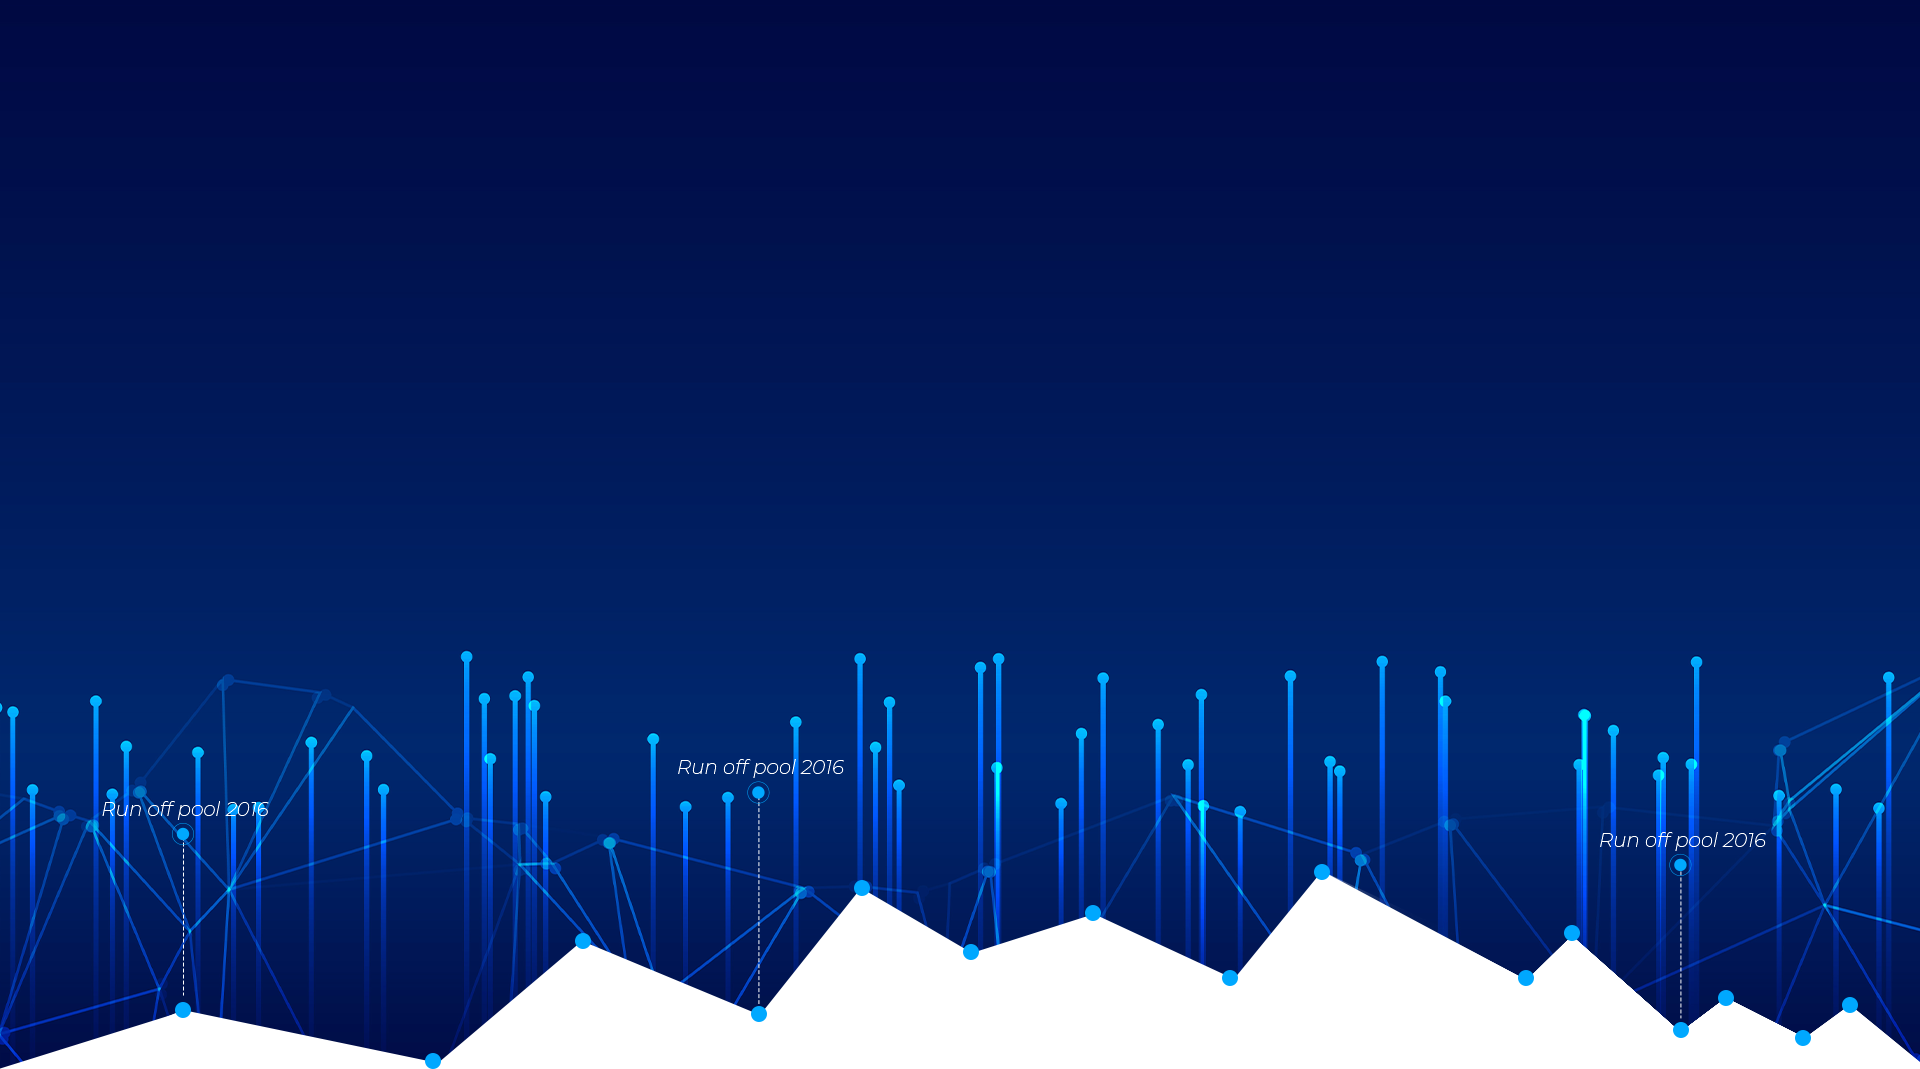
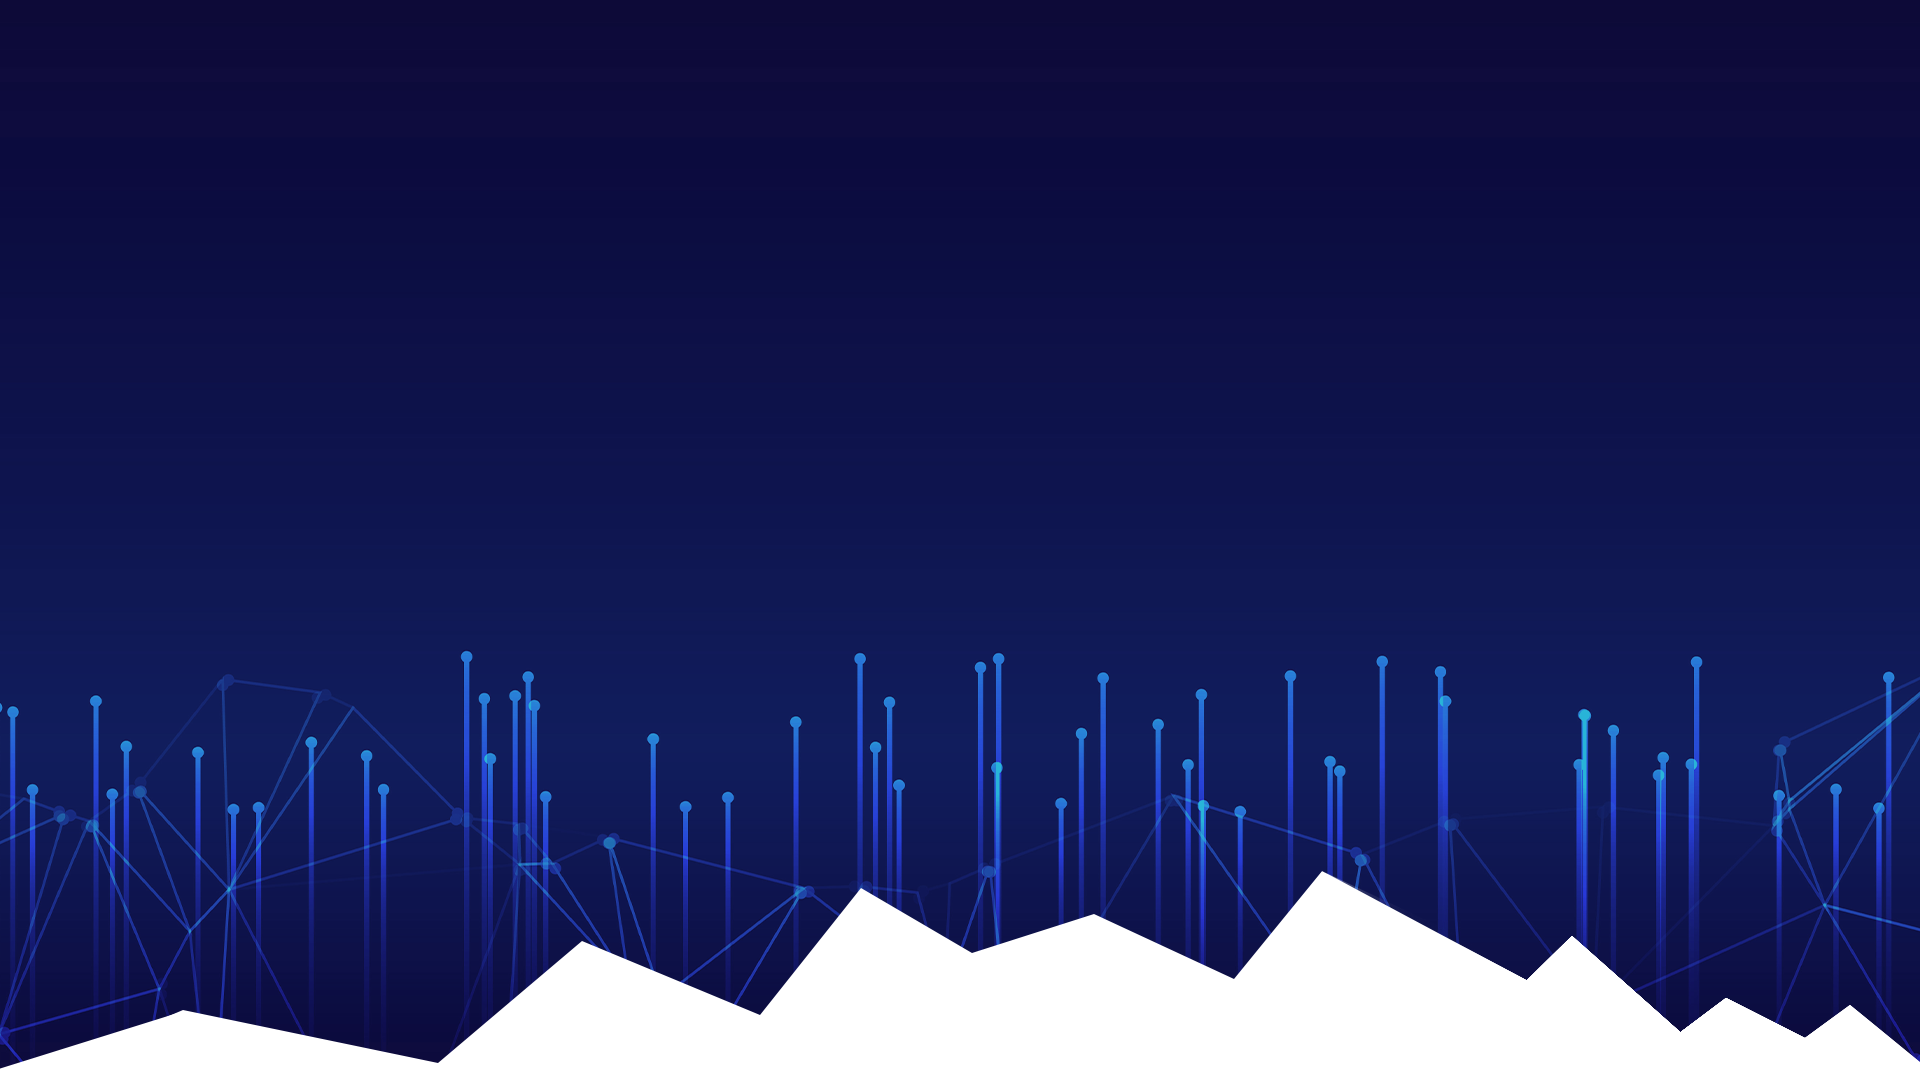
update

diff --git a/index.html b/index.html
@@ -149,7 +149,8 @@
                     </div>
 
                     <div class="intro-img wow bounceIn">
-                        <img src="./assets/newImages/earth.png " alt="">
+                        <!-- <img src="./assets/newImages/earth.png " alt=""> -->
+                        <canvas id="canvas" width="300"></canvas>
                     </div>
                 </div>
             </div>
@@ -1038,4 +1039,114 @@
         live: true, // default
     });
     wow.init();
+
+    var canvas = document.querySelector('#canvas');
+    // document.body.appendChild(canvas);
+    // canvas.id = "canvas";
+    var ctx = canvas.getContext("2d");
+    var spheres = [];
+    var imgdata = [];
+    canvas.width = window.innerWidth;
+    canvas.height = window.innerHeight;
+    var imgWidth = 100;
+    var imgHeight = 50;
+    var screenX = canvas.width / 2;
+    var screenY = canvas.height / 2;
+    var screenScale = 1000;
+    var rotation = 0;
+    var isReadyAnimation = false;
+
+    var Vector = function (x, y, z) {
+        this.x = x;
+        this.y = y;
+        this.z = z;
+    }
+
+    var Particle = function (x, y, z, colorsArrIndex) {
+        this.pos = new Vector(x, y, z);
+        this.posModel = new Vector(x, y, z);
+        this.GenerateColorFromImgIndex(colorsArrIndex);
+    }
+
+    Particle.prototype.GenerateColorFromImgIndex = function (i) {
+        this.r = 256 - imgdata[i * 4 + 0];
+        this.g = 256 - imgdata[i * 4 + 1];
+        this.b = imgdata[i * 4 + 2];
+        this.a = 0;
+    }
+
+    var Sphere = function (x, y, radius, numPointsX, numPointsY) {
+        this.pos = new Vector(x, y, 1);
+        this.particles = [];
+        this.GeneratePoints(x, y, radius, numPointsX, numPointsY);
+    }
+
+    function CreateColorsArr() {
+        var canvasimg = document.createElement('canvas');
+        var ctximg = canvasimg.getContext("2d");
+        var img = new Image();
+        img.crossOrigin = "";
+        img.src = "https://ucarecdn.com/684548ca-0157-4455-9fe5-9782af655cf0/worldmapsmall_bw9sas.png";
+        var ctximg = canvasimg.getContext("2d");
+        img.onload = function () {
+            ctximg.translate(imgWidth, imgHeight);
+            ctximg.scale(-1, -1);
+            ctximg.drawImage(img, 0, 0);
+            imgdata = ctximg.getImageData(0, 0, imgWidth, imgHeight).data;
+            ctximg.clearRect(0, 0, imgWidth, imgHeight);
+            spheres.push(new Sphere(0, 0, canvas.height / 4, imgWidth, imgHeight));
+            isReadyAnimation = true;
+        }
+    }
+
+    Sphere.prototype.GeneratePoints = function (x, y, radius, num, num2) {
+        x = x / 2;
+        y = y / 2;
+        num = Math.floor(num);
+        var angle = 2 * Math.PI / num;
+        var angle2 = Math.PI / num2;
+        for (var j = 0; j <= num2; j++) {
+            for (var i = 0; i < num; i++) {
+                var rx = radius * Math.cos(angle * i) * Math.sin(angle2 * j);
+                var rz = radius * Math.sin(angle * i) * Math.sin(angle2 * j);
+                var ry = radius * Math.cos(angle2 * j);
+                this.particles.push(new Particle(x + rx, y + ry, rz, j * imgWidth + i));
+            }
+        }
+    }
+
+    Sphere.prototype.RotateAxisY = function (angle) {
+        for (var i = 0; i < this.particles.length; i++) {
+            this.particles[i].posModel.x = this.particles[i].pos.x * Math.cos(angle) + this.particles[i].pos.z * (-1) * Math.sin(angle);
+            this.particles[i].posModel.y = this.particles[i].pos.y;
+            this.particles[i].posModel.z = this.particles[i].pos.x * Math.sin(angle) + this.particles[i].pos.z * Math.cos(angle);
+        }
+    }
+
+    Sphere.prototype.Draw = function (ctx) {
+        ctx.beginPath();
+        for (var i = 0; i < this.particles.length; i++) {
+            var z = this.particles[i].posModel.z;
+            var x = this.particles[i].posModel.x * screenScale / (z * (-1) + screenScale) + screenX;
+            var y = this.particles[i].posModel.y * screenScale / (z * (-1) + screenScale) + screenY;;
+            var a = (this.particles[i].posModel.z + (imgWidth / 2)) / imgWidth;
+            if (a > 0.2) {
+                ctx.fillStyle = "rgba(" + this.particles[i].r + "," + this.particles[i].g + "," + this.particles[i].b + "," + a + ")";
+                ctx.fillRect(this.pos.x + x, this.pos.y + y, 2, 2);
+            }
+        }
+    }
+
+    function loop() {
+        ctx.clearRect(0, 0, canvas.width, canvas.height);
+        if (isReadyAnimation) {
+            spheres[0].Draw(ctx);
+            spheres[0].RotateAxisY(rotation);
+            rotation += 0.005;
+        }
+        requestAnimationFrame(loop);
+    }
+    CreateColorsArr();
+    loop();
+
 </script>

diff --git a/assets/css/fxcm.css b/assets/css/fxcm.css
@@ -12,8 +12,9 @@ html,body{
 }
 
 .intro-wrapper{
-    background: url(../newImages/bg-intro.png) no-repeat top center;
+    background: url(../newImages/bg-intro.png) no-repeat bottom center;
     background-size: 100% 100%;
+    background-color: #fff !important;
 }
 
 .workflow-img{
@@ -144,9 +145,6 @@ html,body{
 }
 
 /* UPDATE ROADMAP */
-.intro-wrapper{
-    background-image: linear-gradient(180deg, #050F46 44%, #00246A 100%);
-}
 
 .roadmap{
     position: absolute;
@@ -284,5 +282,36 @@ html,body{
 
     .roadmap-item-line--3{
         height: 19vh;
+    }
+}
+
+/* update earth */
+.intro-img{
+    position: relative;
+    width: 100%;
+    display: flex;
+}
+
+.intro-img canvas {
+    /* width: 70vw;
+    max-width: 1200px; */
+    position: absolute;
+    top: 50%;
+    left: 50%;
+    transform: translate(-50%,-50%);
+}
+
+.roadmap-item-text{
+    background-color: #004b45d1;
+}
+
+/* Mobile & Tablet */
+@media (max-width: 1023px) {
+    .intro-img{
+        transform: scale(0.8);
+    }
+
+    .intro-wrapper{
+        background-position: left center;
     }
 }
